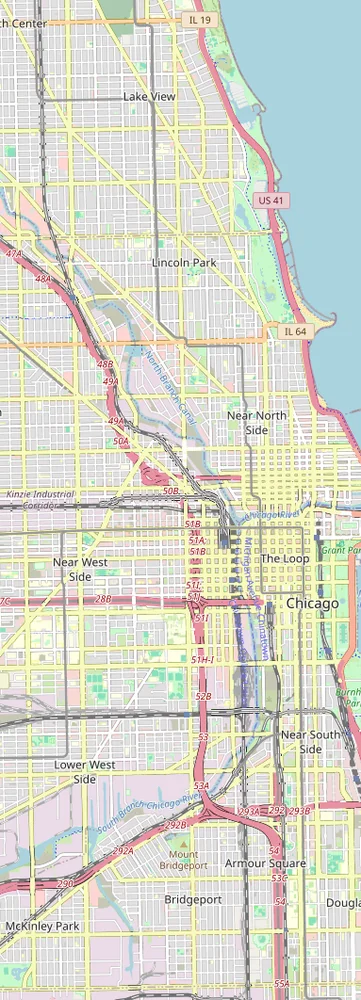
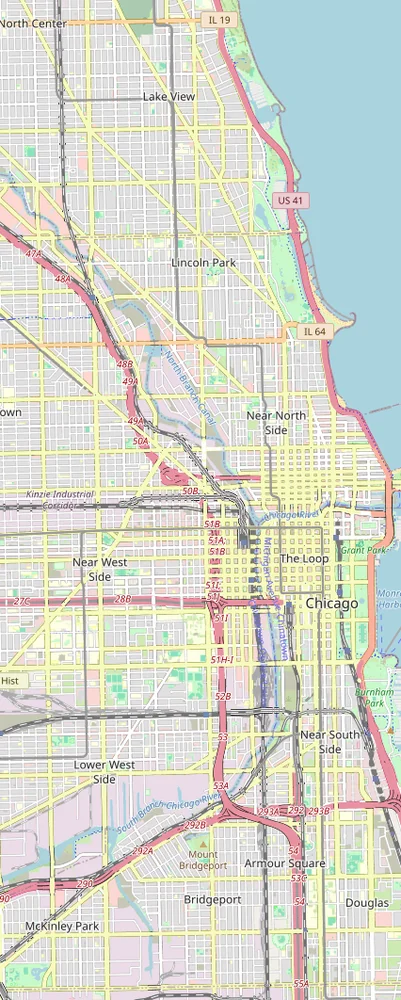
Journeys: every course on a real map
Golden Gate, Five Boroughs, Thames, Death Valley and Route 66 join the
trail and Chicago. A long thin course area is widened on its short
side so the picture isn't a sliver in the app's box.

Claude-Session: https://claude.ai/code/session_01RNw4n2uSEZgTWDTWudePbP

diff --git a/mobile/src/journeys/courseMaps.ts b/mobile/src/journeys/courseMaps.ts
@@ -13,5 +13,10 @@ export interface CourseMap {
 
 export const COURSE_MAPS: Record<string, CourseMap> = {
   'appalachian': { source: require('../../assets/maps/appalachian.webp'), bounds: { minLat: 33.724340, maxLat: 46.807580, minLng: -85.418701, maxLng: -67.697754 }, width: 1400, height: 1362, attribution: '© OpenStreetMap contributors' },
-  'windy-city': { source: require('../../assets/maps/windy-city.webp'), bounds: { minLat: 41.821606, maxLat: 41.957320, minLng: -87.681370, maxLng: -87.615623 }, width: 361, height: 1000, attribution: '© OpenStreetMap contributors' },
+  'death-valley': { source: require('../../assets/maps/death-valley.webp'), bounds: { minLat: 36.158944, maxLat: 36.709715, minLng: -118.358459, maxLng: -116.648026 }, width: 1400, height: 560, attribution: '© OpenStreetMap contributors' },
+  'five-boroughs': { source: require('../../assets/maps/five-boroughs.webp'), bounds: { minLat: 40.584757, maxLat: 40.831866, minLng: -74.070168, maxLng: -73.913269 }, width: 481, height: 1000, attribution: '© OpenStreetMap contributors' },
+  'golden-gate': { source: require('../../assets/maps/golden-gate.webp'), bounds: { minLat: 37.806258, maxLat: 37.834243, minLng: -122.485585, maxLng: -122.471402 }, width: 561, height: 1400, attribution: '© OpenStreetMap contributors' },
+  'route-66': { source: require('../../assets/maps/route-66.webp'), bounds: { minLat: 32.231390, maxLat: 43.516689, minLng: -120.981445, maxLng: -85.144043 }, width: 1400, height: 561, attribution: '© OpenStreetMap contributors' },
+  'thames': { source: require('../../assets/maps/thames.webp'), bounds: { minLat: 51.464061, maxLat: 51.523484, minLng: -0.157070, maxLng: 0.081024 }, width: 1000, height: 401, attribution: '© OpenStreetMap contributors' },
+  'windy-city': { source: require('../../assets/maps/windy-city.webp'), bounds: { minLat: 41.821606, maxLat: 41.957320, minLng: -87.684975, maxLng: -87.611847 }, width: 401, height: 1000, attribution: '© OpenStreetMap contributors' },
 };

diff --git a/mobile/scripts/courses/basemap.py b/mobile/scripts/courses/basemap.py
@@ -40,12 +40,16 @@ UA = 'Hound journeys basemap build/1.0 (https://github.com/sigmasteve/hound)'
 ATTRIBUTION = '© OpenStreetMap contributors'
 # The same padding JourneyMap gives a course without a picture.
 PAD = 0.08
+# Longest side over shortest, at most.
+MAX_RATIO = 2.5
 # Longest side of a picture, in pixels. A city course is shown shrunk a
 # lot on a phone, so one zoom lower (fewer, bolder streets and labels)
 # reads better than the default.
 DEFAULT_SIZE = 1400
 TARGET_SIZE = {
     'windy-city': 1000,
+    'five-boroughs': 1000,
+    'thames': 1000,
 }
 
 
@@ -91,6 +95,18 @@ def build(course: str, path: list[list[float]], cache: Path, size: int) -> dict:
     max_lng += pad_lng
     x0, y1 = merc(min_lat, min_lng)
     x1, y0 = merc(max_lat, max_lng)
+    # A course that's a long thin line (a bridge, a river, a road across
+    # the country) gets more of its surroundings on the short side, so
+    # the picture isn't a sliver in the app's box.
+    w_span, h_span = x1 - x0, y1 - y0
+    if h_span > w_span * MAX_RATIO:
+        extra = (h_span / MAX_RATIO - w_span) / 2
+        x0 -= extra
+        x1 += extra
+    elif w_span > h_span * MAX_RATIO:
+        extra = (w_span / MAX_RATIO - h_span) / 2
+        y0 -= extra
+        y1 += extra
     # The zoom whose tiles give at least `size` pixels on the longer side.
     span = max(x1 - x0, y1 - y0)
     z = min(18, max(1, math.ceil(math.log2(size / (span * 256)))))
